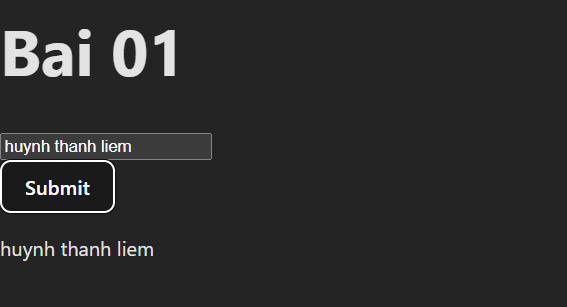
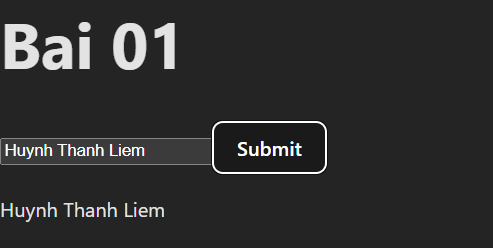
bai 02 update minhchung 01

Changed region(s): [[0.0, 0.4234, 0.6694, 0.7056], [0.0, 0.0847, 0.3651, 0.2823], [0.0, 0.7903, 0.3347, 0.9032]]

diff --git a/my-app/src/App.jsx b/my-app/src/App.jsx
@@ -16,29 +16,81 @@ function Bai01() {
   }
 
   return (
-    <div>
-      <h1>Bai 01</h1>
-      <input
-        type="text"
-        value={name}
-        onChange={handleChange}
-        placeholder="Enter your name"
-        className="border p-2 rounded-lg"
-      />
-      <br />
-      <button
-        onClick={handleClick}
-        className="bg-blue-500 hover:bg-blue-600 text-white px-3 py-2 rounded-lg"
-      >
-        Submit
-      </button>
-      {text && <p className="mt-2">{text}</p>}
+    <div className="flex items-center justify-center min-h-screen bg-gray-100">
+      <div className="bg-white p-8 rounded-xl shadow-lg text-center">
+        <h1 className="text-2xl font-bold mb-4">Bai 01</h1>
+        <input
+          type="text"
+          value={name}
+          onChange={handleChange}
+          placeholder="Enter your name"
+          className="border border-gray-300 p-3 rounded-lg w-full mb-4 focus:outline-none focus:ring-2 focus:ring-blue-400"
+        />
+        <button
+          onClick={handleClick}
+          className="bg-blue-500 hover:bg-blue-600 text-white px-4 py-2 rounded-lg transition duration-300 "
+        >
+          Submit
+        </button>
+        {text && <p className="mt-4 text-lg font-medium text-gray-700">{text}</p>}
+      </div>
     </div>
   );
 }
 
-function Bai02() {
-  
+
+function Bai02() { 
+  const [num1, setNum1] = useState('');
+  const [num2, setNum2] = useState('');
+  const [result, setResult] = useState(null);
+
+  function handleChange1(e) {
+    setNum1(e.target.value);
+  }
+
+  function handleChange2(e) {
+    setNum2(e.target.value);
+  }
+
+  function handleClick() {
+    const sum = parseFloat(num1) + parseFloat(num2);
+    setResult(isNaN(sum) ? 'Invalid input' : sum);
+  }
+
+  return (
+    <div className="flex items-center justify-center min-h-screen bg-gradient-to-br from-blue-100 to-blue-300">
+      <div className="bg-white p-8 rounded-2xl shadow-2xl text-center w-96">
+        <h1 className="text-3xl font-extrabold mb-6 text-gray-800">Bài 02</h1>
+        <div className="flex flex-col space-y-4">
+          <input
+            type="text"
+            value={num1}
+            onChange={handleChange1}
+            placeholder="Nhập số thứ nhất"
+            className="border border-gray-300 p-3 rounded-lg w-full focus:outline-none focus:ring-2 focus:ring-blue-400"
+          />
+          <input
+            type="text"
+            value={num2}
+            onChange={handleChange2}
+            placeholder="Nhập số thứ hai"
+            className="border border-gray-300 p-3 rounded-lg w-full focus:outline-none focus:ring-2 focus:ring-blue-400"
+          />
+          <button
+            onClick={handleClick}
+            className="bg-blue-500 hover:bg-blue-600 text-white py-3 rounded-lg text-lg font-semibold transition duration-300"
+          >
+            Tính Tổng
+          </button>
+          {result !== null && (
+            <p className="mt-4 text-xl font-semibold text-green-700">
+              Kết quả: {result}
+            </p>
+          )}
+        </div>
+      </div>
+    </div>
+  );
 }
 
 
@@ -171,6 +223,7 @@ export default function App() {
       <Calculator />
       <TodoApp />
       <Bai01 />
+      <Bai02 />
     </div>
   );
 }
